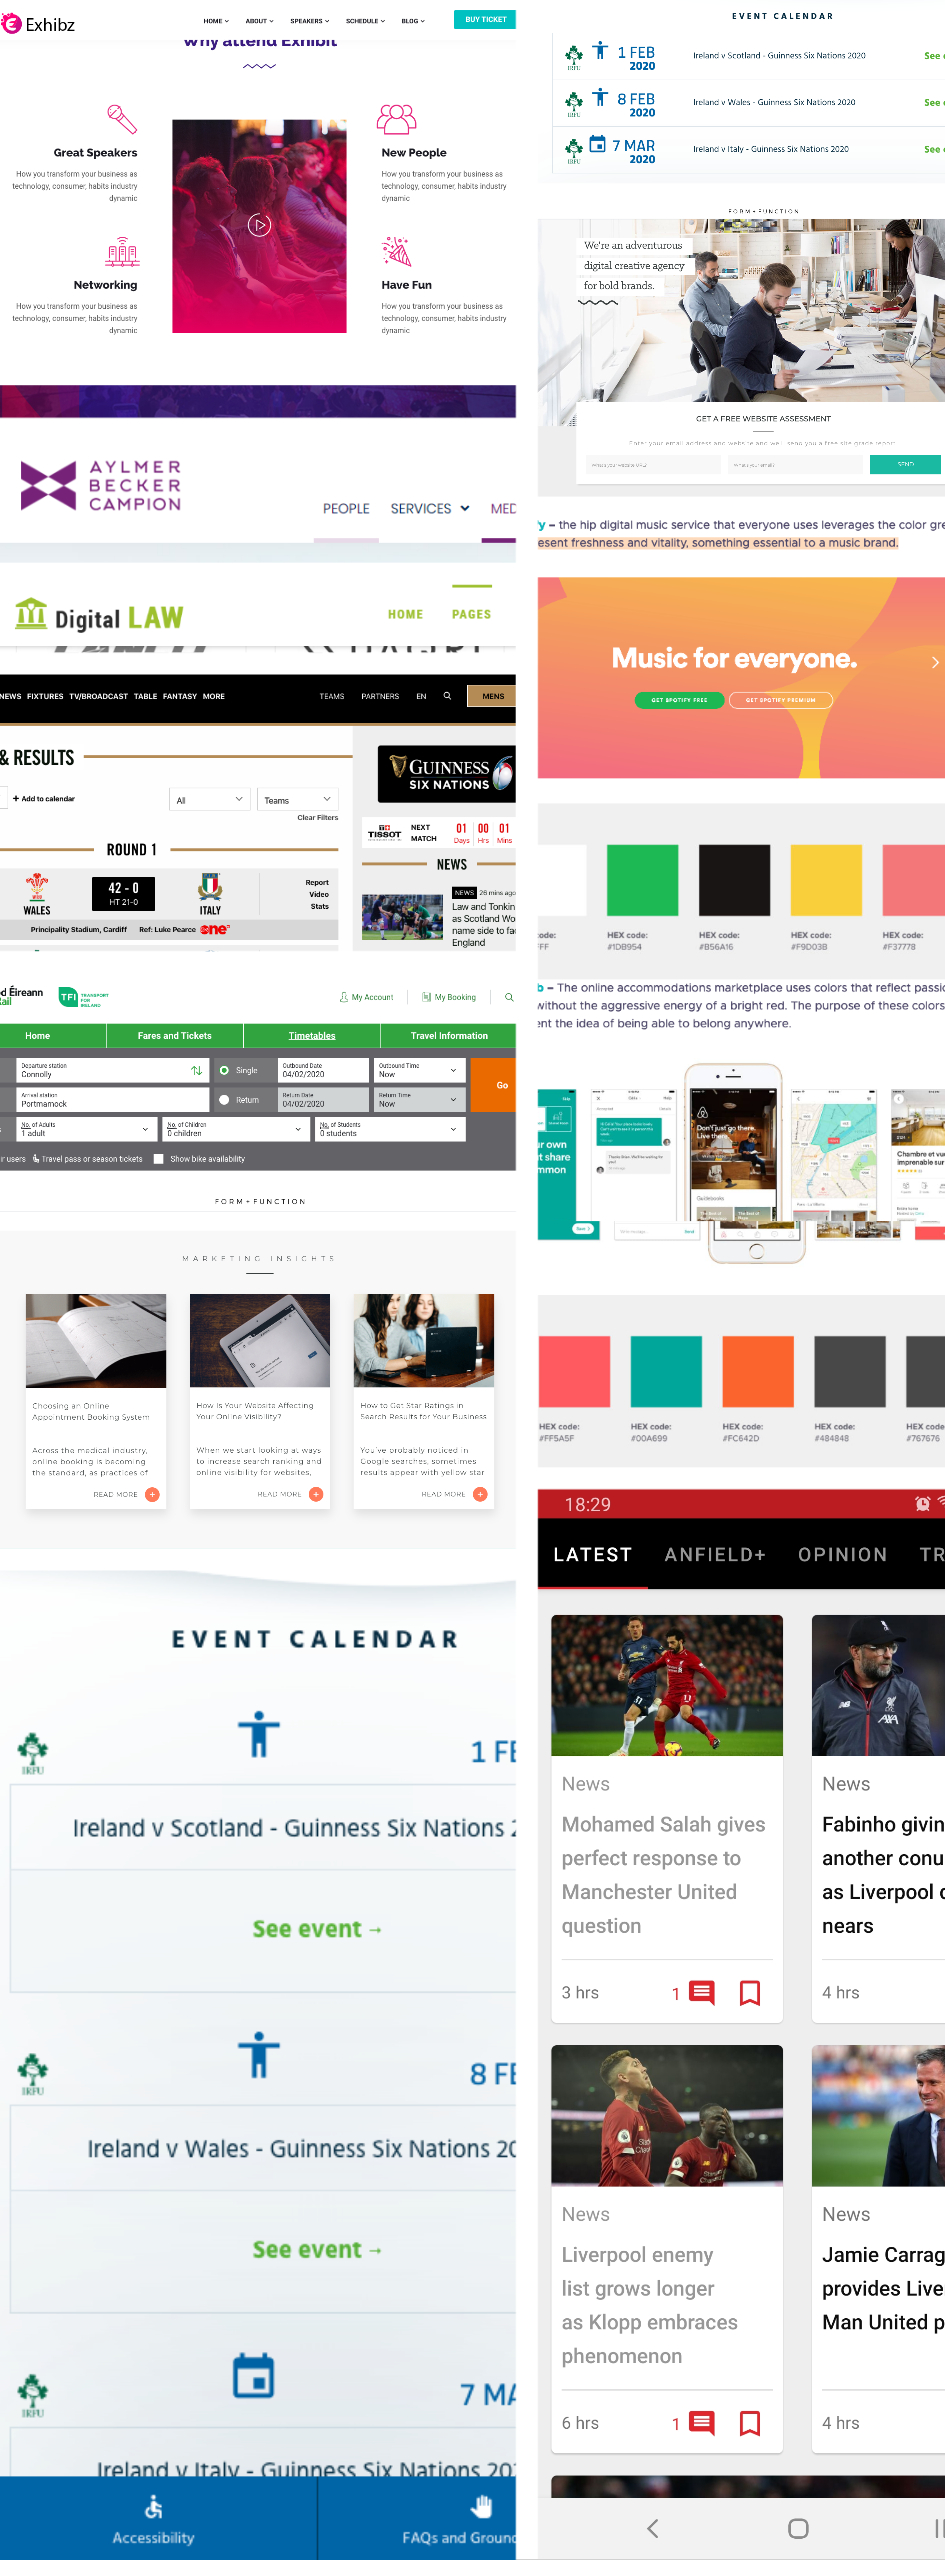
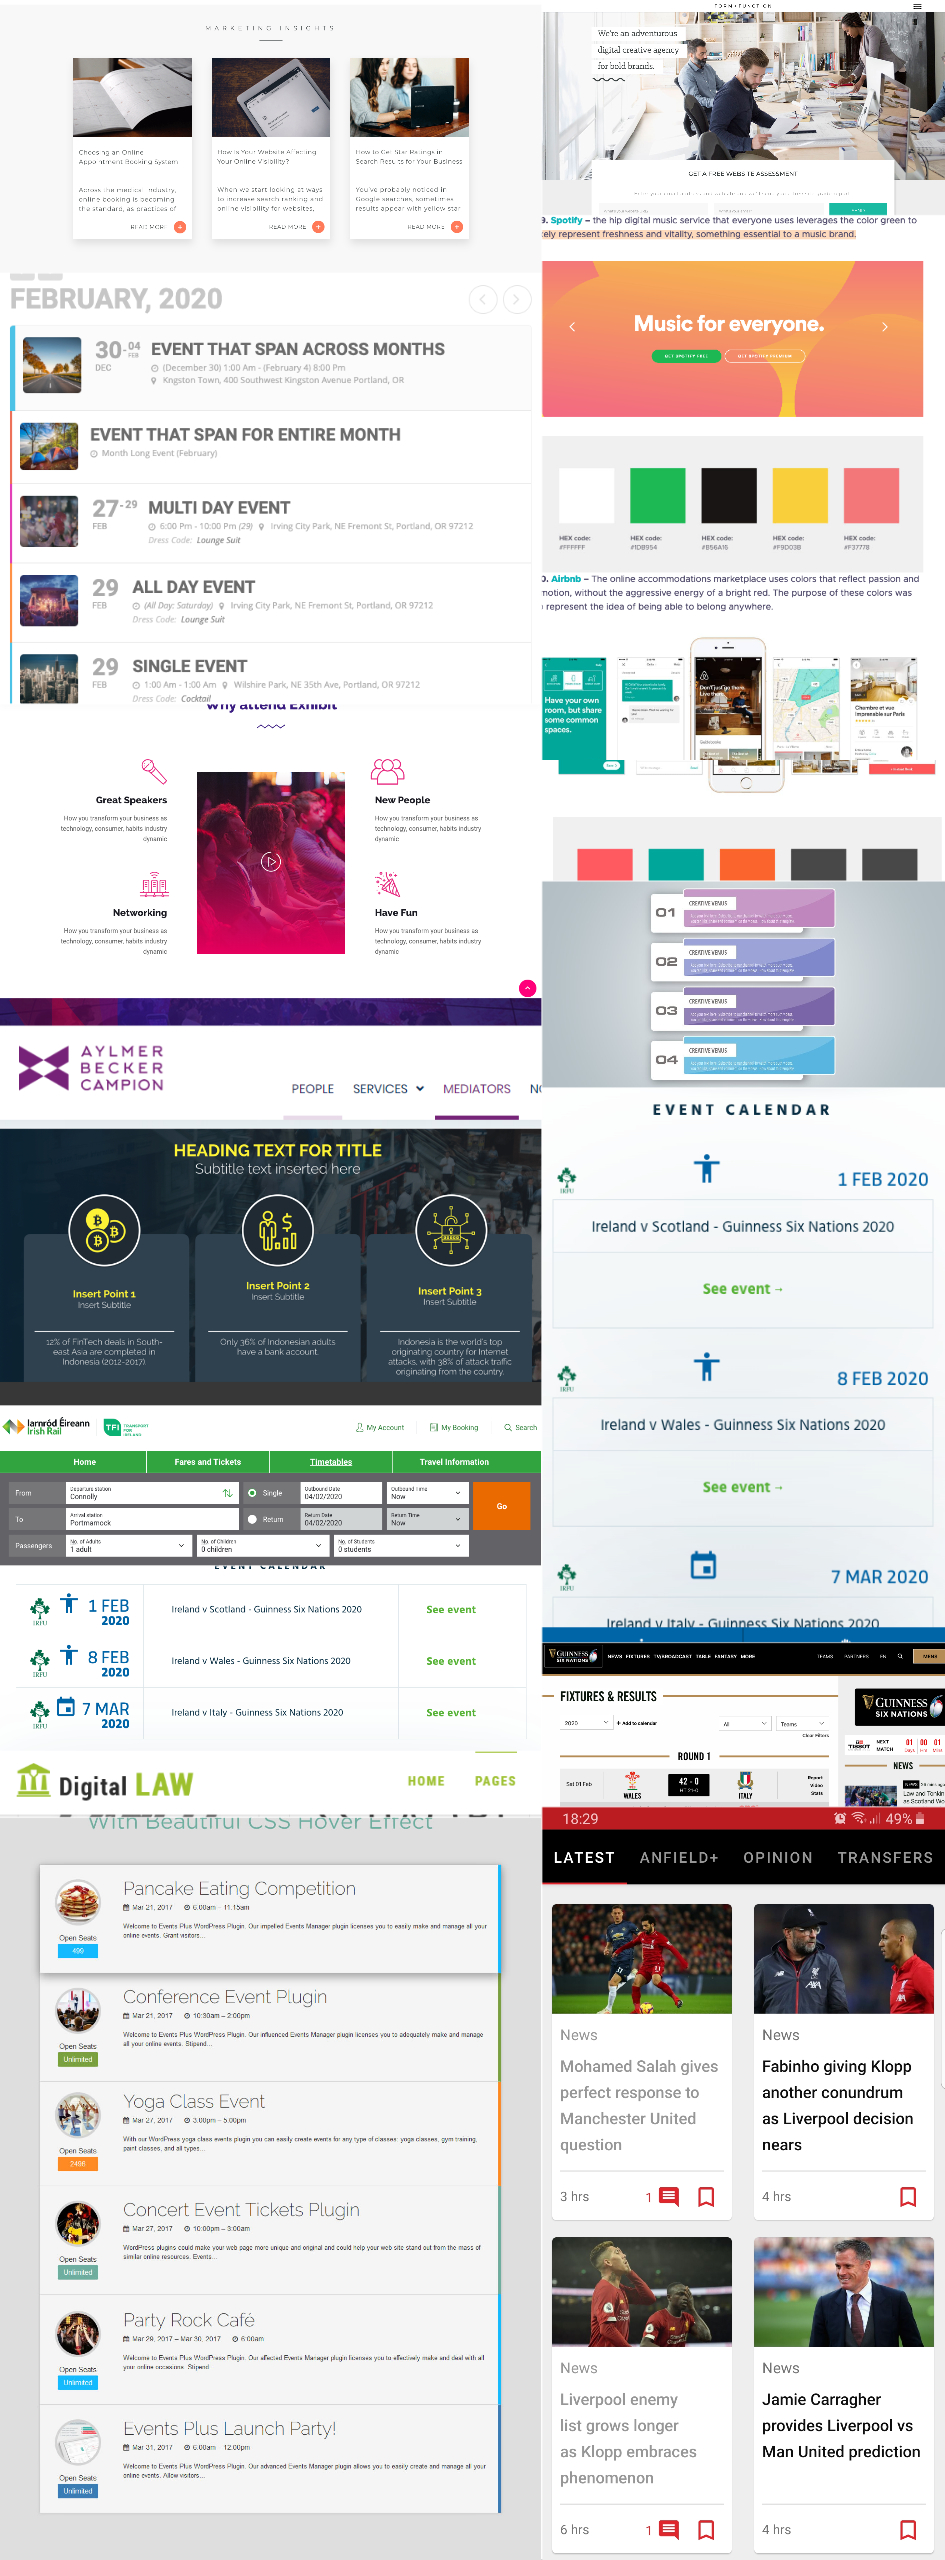
update moodboard image

diff --git a/README.md b/README.md
@@ -232,7 +232,7 @@ To run locally, you can clone this repository directly into the editor of your c
 
 ### Design and Research
 
-The following sites are websites that I used for reference:
+The following sites are websites that I used for reference and inspiration:
  - https://solfeggio.cmsmasters.net/contacts/
  - http://www.churchtownschoolofmusic.ie/
  - http://www.themusicroom.ie/
@@ -243,7 +243,7 @@ The following sites are websites that I used for reference:
  - [Colour and emotions](https://99designs.ie/blog/tips/how-color-impacts-emotions-and-behaviors/)
  - [Nice clean colour scheme with greens and orange](https://www.formandfunctionagency.com/)
  - [Our People cards](https://venngage.com/blog/presentation-layout-ideas/)
- - Event Lists - https://www.youtube.com/watch?v=W9hnAVLgZ_g&t=493s and https://wpeventsplus.com/events-list/
+ - Event Lists - https://www.youtube.com/watch?v=W9hnAVLgZ_g&t=493s, https://wpeventsplus.com/events-list/ and https://demo.myeventon.com/
 
 
 ### Technical
@@ -273,6 +273,5 @@ How to replace the Bootstrap dropdown caret icon from [stackoverflow](https://st
 
 ### Acknowledgements
 
-- I received inspiration for this project from X
 - Thanks to my mentor Anthony Ngene for his suggestions and his time.
 - TO FINISH Thanks to those on Slack for reviewing my project.
